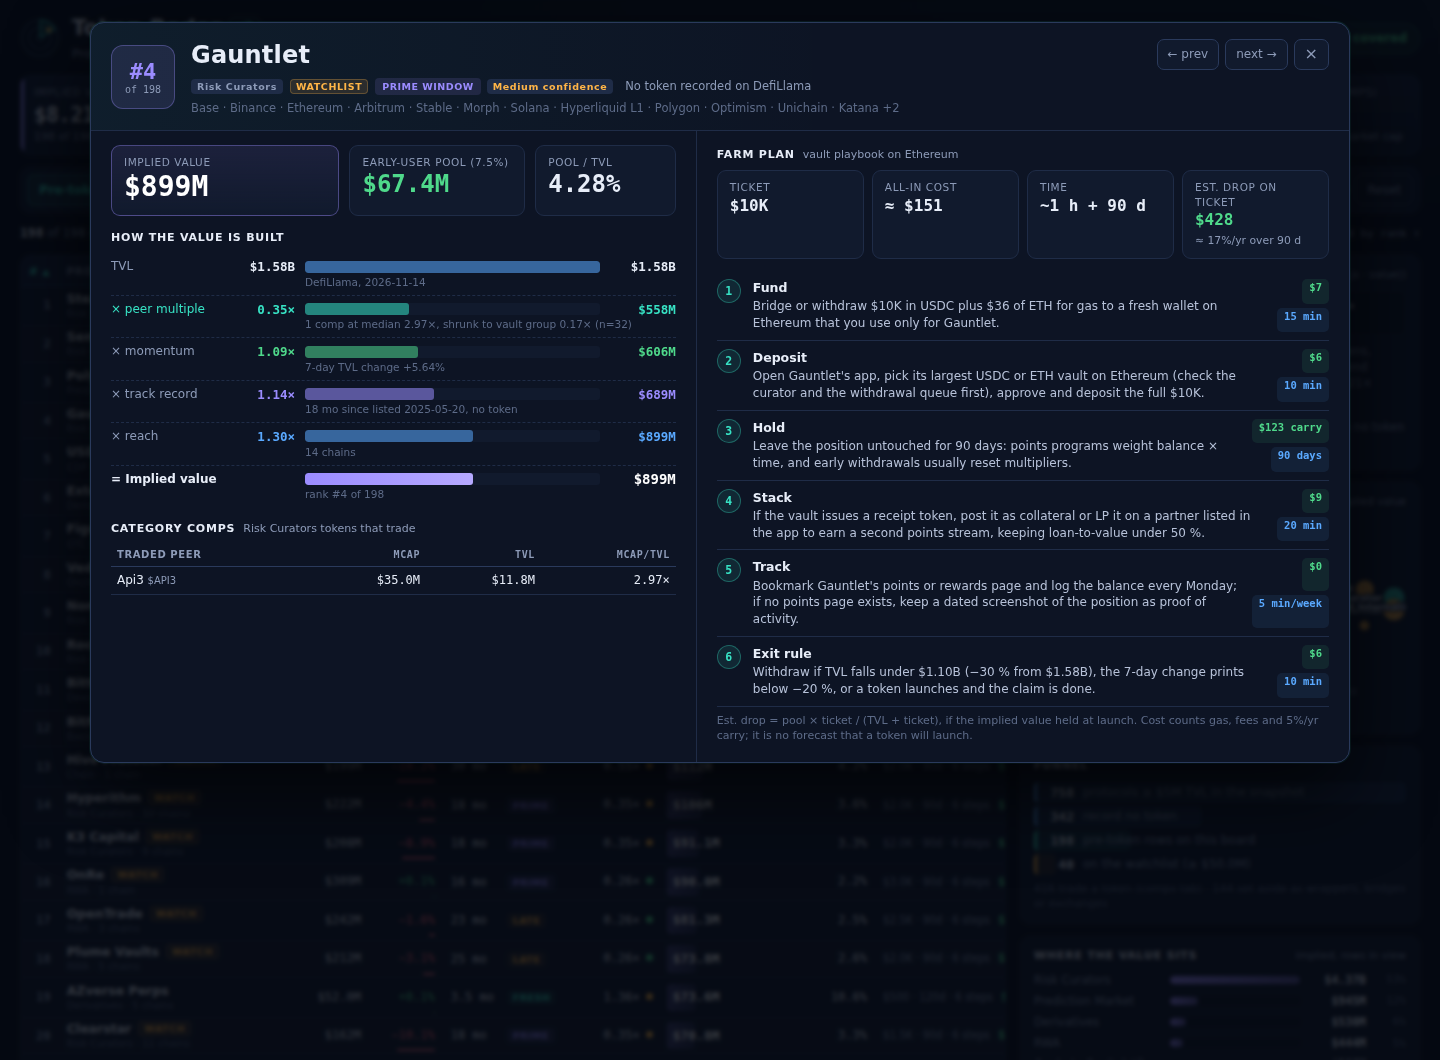
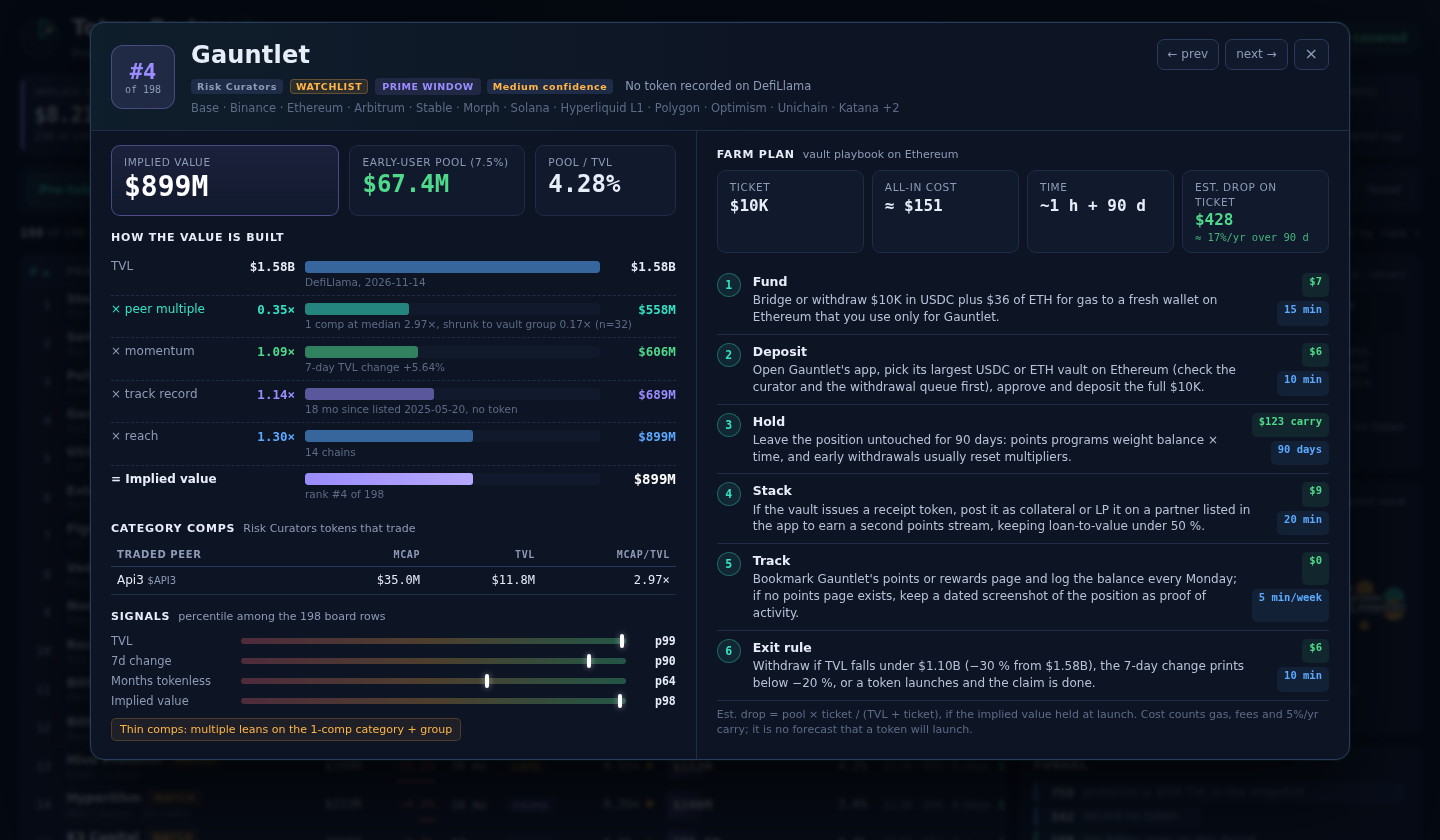
Detail signals and flags, hierarchical peer shrinkage, fresh+inflow filtered view, screenshot packing

diff --git a/dashboard/app.js b/dashboard/app.js
@@ -106,7 +106,7 @@
       ['Implied value in view', usd(sum), rows.length + ' of ' + R.rows.length + ' pre-token rows', 'v'],
       ['Top implied value', top ? usd(top.v.implied) : '—', top ? '#' + top.rank + ' ' + esc(top.p.name) : 'no rows', ''],
       ['TVL with no token', usd(tvl), 'avg ' + mult(tvl ? sum / tvl : 0) + ' implied / TVL', ''],
-      ['Early-user pool @ ' + R.params.DROP_SHARE * 100 + '%', usd(pool), 'what farmers would split if values held', 'g'],
+      ['Early-user pool @ ' + R.params.DROP_SHARE * 100 + '%', usd(pool), 'early users\' share if values held', 'g'],
       ['7-day inflow', rows.length ? Math.round(up / rows.length * 100) + '%' : '—', up + ' rows grew TVL this week', ''],
       ['Peer multiple (all comps)', mult(R.peers.global), R.peers.n + ' traded tokens with market cap', 'c']
     ];
@@ -235,6 +235,27 @@
   }
 
   /* ---------- detail ---------- */
+  /** Percentile of a row on the board for one figure, and the data-derived flags a farmer should read first. */
+  function pctile(r, k) { var x = KEYS[k](r), n = 0; R.rows.forEach(function (o) { if (KEYS[k](o) < x) n++; }); return n / (R.rows.length - 1); }
+  function signals(r) {
+    var p = r.p, v = r.v, f = [];
+    if (p.change_7d !== null && p.change_7d < -8) f.push(['dn', 'TVL left this week (' + pct(p.change_7d) + ')']);
+    if (p.change_7d > 8) f.push(['up', 'Strong 7-day inflow (' + pct(p.change_7d) + ')']);
+    if (p.chains.length === 1) f.push(['', 'Single chain: ' + esc(p.chains[0])]);
+    if (v.months !== null && v.months < 3) f.push(['', 'Listed under 3 months ago']);
+    if (v.months === null) f.push(['', 'Listing date not recorded']);
+    if (v.months > 30) f.push(['', 'Over 2½ years with no token: may never launch one']);
+    if (v.peerN < 3) f.push(['', 'Thin comps: multiple leans on the ' + v.peerN + '-comp category + group']);
+    if (p.tvl_usd < R.floor * 1.2 && r.watch) f.push(['', 'TVL within 20% of the watchlist floor']);
+    if (!f.length) f.push(['up', 'No red flags in the snapshot\'s figures']);
+    var bars = [['TVL', 'tvl'], ['7d change', 'd7'], ['Months tokenless', 'months'], ['Implied value', 'implied']].map(function (b) {
+      var q = pctile(r, b[1]);
+      return '<div class="sg"><span>' + b[0] + '</span><s><i style="left:' + (q * 100).toFixed(1) + '%"></i></s><b>p' + Math.round(q * 100) + '</b></div>';
+    }).join('');
+    return '<h4>Signals <small>percentile among the ' + R.rows.length + ' board rows</small></h4>' + bars +
+      '<div class="flags">' + f.map(function (x) { return '<span class="flag ' + x[0] + '">' + x[1] + '</span>'; }).join('') + '</div>';
+  }
+
   function renderDetail() {
     var r = bySlug[st.p], box = $('detail');
     if (!r) { box.hidden = true; $('scrim').hidden = true; return; }
@@ -264,7 +285,7 @@
       '<div class="nav"><button data-go="' + (prev ? esc(prev.p.slug) : '') + '"' + (prev ? '' : ' disabled') + '>← prev</button><button data-go="' + (next ? esc(next.p.slug) : '') + '"' + (next ? '' : ' disabled') + '>next →</button><button class="x" data-close="1" aria-label="Close">×</button></div></header>' +
       '<div class="dg"><div class="col">' +
       '<div class="hero"><div><span>Implied value</span><b>' + usd(v.implied) + '</b></div><div><span>Early-user pool (' + R.params.DROP_SHARE * 100 + '%)</span><b class="g">' + usd(v.pool) + '</b></div><div><span>Pool / TVL</span><b>' + (v.dropYield * 100).toFixed(2) + '%</b></div></div>' +
-      '<h4>How the value is built</h4>' + wf + '<h4>Category comps <small>' + esc(p.category || '') + ' tokens that trade</small></h4>' + peers + '</div>' +
+      '<h4>How the value is built</h4>' + wf + '<h4>Category comps <small>' + esc(p.category || '') + ' tokens that trade</small></h4>' + peers + signals(r) + '</div>' +
       '<div class="col"><h4>Farm plan <small>' + f.archetype + ' playbook on ' + esc(f.chain) + '</small></h4>' +
       '<div class="ps"><div><span>Ticket</span><b>' + usd(f.ticket) + '</b></div><div><span>All-in cost</span><b>≈ ' + usd(f.cost) + '</b></div><div><span>Time</span><b>~1 h + ' + f.hold + ' d</b></div><div><span>Est. drop on ticket</span><b class="g">' + usd(f.share) + '</b><small>≈ ' + Math.round(f.share / f.ticket * 365 / f.hold * 100) + '%/yr over ' + f.hold + ' d</small></div></div>' +
       '<ol class="steps">' + plan + '</ol><p class="note">Est. drop = pool × ticket / (TVL + ticket), if the implied value held at launch. Cost counts gas, fees and 5%/yr carry; it is no forecast that a token will launch.</p></div></div>';

diff --git a/dashboard/theme.css b/dashboard/theme.css
@@ -143,7 +143,7 @@ h1 span { color: var(--teal); font-family: var(--mono); font-size: 14px; border:
 .model li { margin: 3px 0; }
 .model li span { font-family: var(--mono); font-weight: 700; }
 .c { color: var(--teal); } .g { color: var(--green); } .t { color: var(--violet); } .r { color: var(--blue); }
-.cb { display: grid; grid-template-columns: 128px 1fr 58px 32px; gap: 8px; align-items: center; font-size: 11.5px; margin: 5px 0; }
+.cb { display: grid; grid-template-columns: 158px 1fr 58px 32px; gap: 8px; align-items: center; font-size: 11.5px; margin: 5px 0; }
 .cb span { overflow: hidden; text-overflow: ellipsis; white-space: nowrap; color: var(--mute); }
 .cb s { height: 8px; background: var(--bg2); border-radius: 4px; overflow: hidden; }
 .cb s i { display: block; height: 100%; background: linear-gradient(90deg, var(--violet), #9b8cff88); border-radius: 4px; }
@@ -209,3 +209,12 @@ h4 small { text-transform: none; letter-spacing: 0; font-size: 11px; }
 .pill { font: 700 10.5px var(--mono); padding: 2px 7px; border-radius: 5px; text-align: right; white-space: nowrap; justify-self: end; }
 .pill.cost { background: #4fd98b17; color: var(--green); }
 .pill.time { background: #5aa9ff17; color: var(--blue); margin-top: 4px; }
+.sg { display: grid; grid-template-columns: 120px 1fr 40px; gap: 10px; align-items: center; font-size: 11.5px; color: var(--mute); margin: 4px 0; }
+.sg s { position: relative; height: 6px; border-radius: 3px; background: linear-gradient(90deg, #ff6b7d44, #ffb54744, #4fd98b55); }
+.sg s i { position: absolute; top: -4px; width: 4px; height: 14px; margin-left: -2px; border-radius: 2px; background: #fff; box-shadow: 0 0 6px #fff8; }
+.sg b { font: 700 11.5px var(--mono); color: var(--ink); text-align: right; }
+.flags { display: flex; flex-wrap: wrap; gap: 6px; margin-top: 9px; }
+.flag { font-size: 11px; padding: 3px 8px; border-radius: 5px; background: #ffb54714; color: var(--amber); border: 1px solid #ffb54733; }
+.flag.dn { background: #ff6b7d14; color: var(--red); border-color: #ff6b7d33; }
+.flag.up { background: #4fd98b14; color: var(--green); border-color: #4fd98b33; }
+.ps small { display: block; font: 10.5px var(--mono); color: var(--green); opacity: .8; }

diff --git a/tools/audit.js b/tools/audit.js
@@ -1,0 +1,15 @@
+window.PROBE = () => {
+  const leaves = [...document.querySelectorAll('body *')].filter((e) => e.offsetParent !== null && !e.closest('svg') && e.children.length === 0 && e.textContent.trim() && !e.closest('[hidden]'));
+  const vis = leaves.filter((e) => { const r = e.getBoundingClientRect(); return r.bottom > 0 && r.top < innerHeight && r.width > 0; });
+  const det = document.getElementById('detail');
+  const pool = det.hidden ? vis.filter((e) => !e.closest('#detail')) : vis.filter((e) => e.closest('#detail'));
+  const over = [];
+  for (let i = 0; i < pool.length; i++) for (let j = i + 1; j < pool.length; j++) {
+    const a = pool[i].getBoundingClientRect(), b = pool[j].getBoundingClientRect();
+    const ix = Math.min(a.right, b.right) - Math.max(a.left, b.left), iy = Math.min(a.bottom, b.bottom) - Math.max(a.top, b.top);
+    if (ix > 2 && iy > 2 && !pool[i].contains(pool[j]) && !pool[j].contains(pool[i])) over.push(pool[i].textContent.slice(0, 20) + ' / ' + pool[j].textContent.slice(0, 20));
+  }
+  const trunc = pool.filter((e) => e.scrollWidth > e.clientWidth + 1 && getComputedStyle(e).textOverflow === 'ellipsis').map((e) => e.textContent.slice(0, 30));
+  const tiny = [...new Set(pool.filter((e) => parseFloat(getComputedStyle(e).fontSize) < 10.5).map((e) => e.className || e.tagName))];
+  return { overlaps: over.slice(0, 10), nOverlap: over.length, truncated: trunc.slice(0, 8), tiny };
+};

diff --git a/dashboard/index.html b/dashboard/index.html
@@ -4,7 +4,7 @@
 <meta charset="utf-8">
 <meta name="viewport" content="width=device-width, initial-scale=1">
 <title>Token Radar v2 — pre-token protocols ranked by implied value</title>
-<link rel="stylesheet" href="app.css">
+<link rel="stylesheet" href="theme.css">
 </head>
 <body>
 <header class="top">
